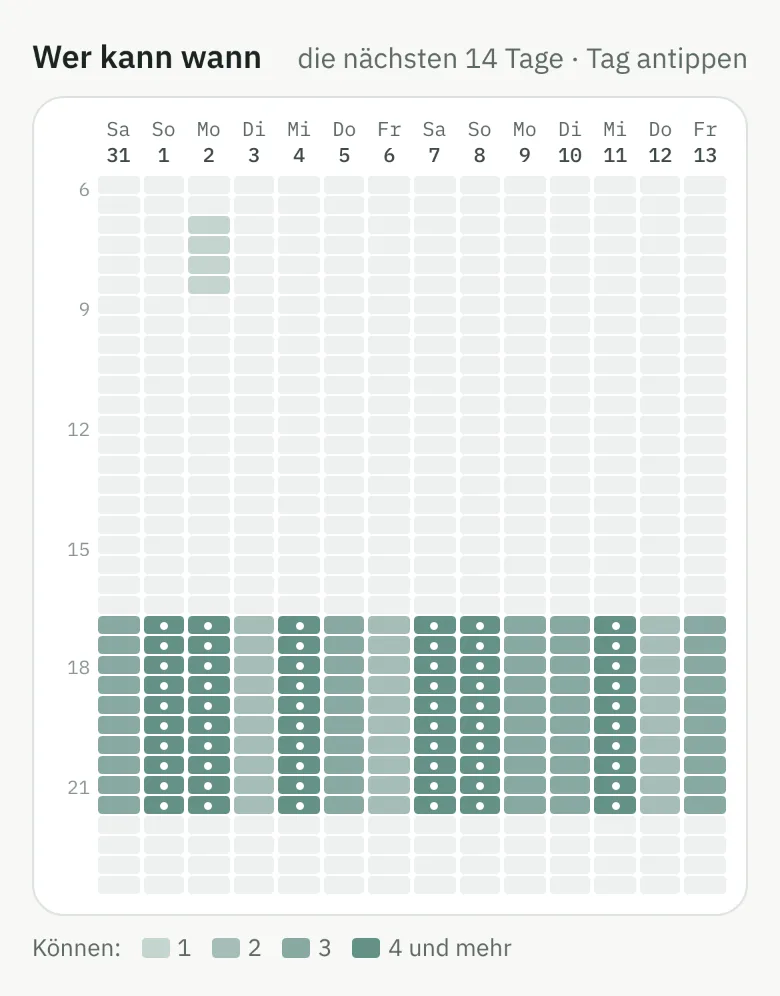
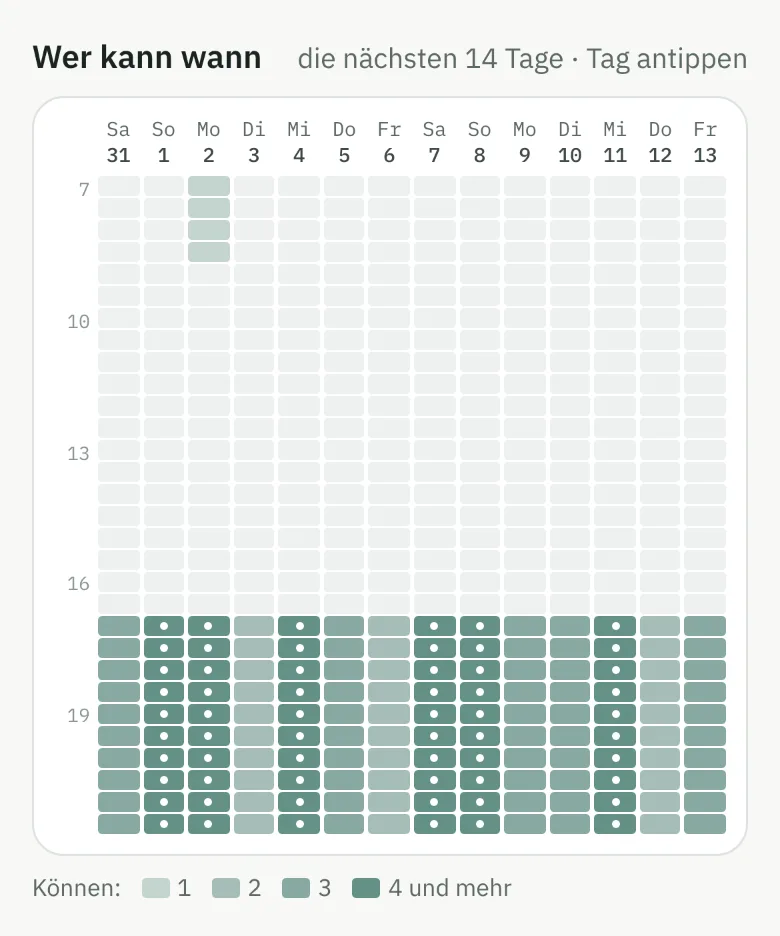
Wer kann wann shows 7:00 to 22:00
Why: Seb: the times should be shown from 7:00 to 22:00.
What: The grid on a group's page and its day sheet show the half hours
from 7 to 22 (30 instead of 36); times entered before 7 or after 22 are
left out of it, nothing else changes. Hilfe text and picture, groups.md
and today's release note say so.
Checked: vitest (WhoCan, help); the help picture made again and looked
at; the gate on push.
Thread: https://claude.ai/code/project/chan_014QcPHgeozJeG7xkT5y7Ejh?thread=cmsg_014QcPHgeozJeG7xkT5y7Ejh5AT7gW7ke6WNrUA2AE7KnF

diff --git a/services/app/src/groups/WhoCan.tsx b/services/app/src/groups/WhoCan.tsx
@@ -1,5 +1,6 @@
 // Wer kann wann on a group's page (Seb, 2026-10-31, feedback #68): the
-// next 14 days, every half hour from 6 to 24, the darker the more members
+// next 14 days, every half hour from 7 to 22 (Seb, 2026-10-31; times
+// entered outside are left out), the darker the more members
 // can; four or more get a dot. It scales with the group, where a row per
 // member would not. Wide, the days are rows and a hover names who can; on a
 // phone the grid turns, days side by side and the time running down, and a
@@ -12,9 +13,10 @@ import { api, call, type AvailabilityDay } from "../api/client";
 import { Sheet } from "@burgstaller/web/sheet";
 import { card, link, quiet } from "../ui";
 
-const FIRST = 6 * 60;
+const FIRST = 7 * 60;
 const STEP = 30;
-const SLOTS = (24 * 60 - FIRST) / STEP;
+const LAST = 22 * 60;
+const SLOTS = (LAST - FIRST) / STEP;
 const WEEKDAYS = ["So", "Mo", "Di", "Mi", "Do", "Fr", "Sa"];
 const FOUR = 4;
 
@@ -168,7 +170,7 @@ export function WhoCan({ group }: { group: number }) {
             <div className="mb-1 grid grid-cols-[4.5rem_1fr] gap-3 font-mono text-[10px] text-ink-faint">
               <span />
               <span className="flex justify-between">
-                {[6, 9, 12, 15, 18, 21, 24].map((h) => (
+                {[7, 10, 13, 16, 19, 22].map((h) => (
                   <span key={h}>{h}</span>
                 ))}
               </span>
@@ -187,7 +189,7 @@ export function WhoCan({ group }: { group: number }) {
                   >
                     {dayLabel(d.day)}
                   </span>
-                  <span className="grid h-[18px] grid-cols-[repeat(36,minmax(0,1fr))] gap-px">
+                  <span className="grid h-[18px] grid-cols-[repeat(30,minmax(0,1fr))] gap-px">
                     {d.can.map((w, i) => (
                       <Cell key={i} n={w.length} onEnter={enter(d, i)} />
                     ))}
@@ -228,11 +230,11 @@ export function WhoCan({ group }: { group: number }) {
             </div>
             <div className="grid grid-cols-[1.25rem_repeat(14,minmax(0,1fr))] gap-0.5">
               <span className="relative font-mono text-[9.5px] text-ink-faint">
-                {[6, 9, 12, 15, 18, 21].map((h) => (
+                {[7, 10, 13, 16, 19].map((h) => (
                   <span
                     key={h}
                     className="absolute right-0.5"
-                    style={{ top: `${((h - 6) / 18) * 100}%` }}
+                    style={{ top: `${((h * 60 - FIRST) / (LAST - FIRST)) * 100}%` }}
                   >
                     {h}
                   </span>
@@ -242,7 +244,7 @@ export function WhoCan({ group }: { group: number }) {
                 <button
                   key={d.day}
                   type="button"
-                  className="grid grid-rows-[repeat(36,9px)] gap-px rounded-sm"
+                  className="grid grid-rows-[repeat(30,10px)] gap-px rounded-sm"
                   aria-label={`${dayLabel(d.day)}: bis zu ${best(d)} von ${total}`}
                   onClick={() => setOpen(d)}
                 >

diff --git a/services/app/src/groups/WhoCan.test.tsx b/services/app/src/groups/WhoCan.test.tsx
@@ -39,9 +39,12 @@ describe("overlay and blocks", () => {
     const days = overlay(win.from, win.to, members);
     expect(days).toHaveLength(14);
     const wed = days.find((d) => d.day === "2026-11-04")!;
-    expect(wed.can[(19 * 60 - 360) / 30]).toEqual(["Seb", "Anna", "markus", "Lisa"]);
+    expect(wed.can[(19 * 60 - 420) / 30]).toEqual(["Seb", "Anna", "markus", "Lisa"]);
     expect(wed.open).toEqual(["Eva"]);
     expect(days.find((d) => d.day === "2026-11-03")!.declined).toEqual(["Lisa"]);
+    // Shown from 7 to 22: Seb's last half hour, 21:30 to 22:00, is the last cell.
+    expect(wed.can).toHaveLength(30);
+    expect(wed.can[29]).toEqual(["Seb"]);
     expect(blocks(wed).map((b) => [b.from, b.to, b.who.length])).toEqual([
       [1080, 1140, 2],
       [1140, 1200, 4],
@@ -59,7 +62,7 @@ describe("WhoCan", () => {
     expect(days).toHaveLength(2); // wide and phone
 
     const cells = days[0]!.querySelectorAll("span.grid > span");
-    fireEvent.mouseEnter(cells[(19 * 60 - 360) / 30]!);
+    fireEvent.mouseEnter(cells[(19 * 60 - 420) / 30]!);
     expect(screen.getByRole("tooltip")).toHaveTextContent(
       "Mi 4.11. · 19:00–19:304 von 5: Seb, Anna, markus, Lisa",
     );

diff --git a/services/app/src/help/chapters.tsx b/services/app/src/help/chapters.tsx
@@ -188,7 +188,7 @@ export const CHAPTERS: Chapter[] = [
         </p>
         <p>
           Darunter zeigt {b("Wer kann wann")} die nächsten 14 Tage der ganzen Gruppe, jede halbe
-          Stunde von 6 bis 24 Uhr. Je dunkler ein Feld, desto mehr von euch können; ab vier hat es
+          Stunde von 7 bis 22 Uhr. Je dunkler ein Feld, desto mehr von euch können; ab vier hat es
           einen Punkt. Am Computer stehen die Namen da, wenn du mit der Maus darüberfährst. Ein Tipp
           auf einen Tag zeigt seine Zeiten mit Namen, wer „Passt nicht“ gesagt hat und wer den Tag
           noch offen hat. Ob ein Platz frei ist, steht dort nicht, das sagt {b("Passt für vier")}.

diff --git a/docs/design/groups.md b/docs/design/groups.md
@@ -71,7 +71,8 @@
   two slices.
 - **Wer kann wann** (Seb, 2026-10-31, feedback #68): on a group's page,
   under Passt für vier, the next 14 days of the whole group, every half
-  hour from 6 to 24, the darker the more members can, with a dot from
+  hour from 7 to 22 (Seb, 2026-10-31; times entered outside are not
+  shown), the darker the more members can, with a dot from
   four (`groups/WhoCan.tsx`). `GET /api/v1/groups/{id}/availability`
   gives every member's spans and declined days, members only: an open
   group shows its members to anyone, never their times (404 `no-group`).

diff --git a/release_notes/2026-10-31-wer-kann-wann.md b/release_notes/2026-10-31-wer-kann-wann.md
@@ -5,7 +5,7 @@ title: Auf einen Blick, wer aus deiner Gruppe wann kann
 link: /play
 ---
 Auf der Seite deiner Gruppe steht unter **Passt für vier** jetzt **Wer kann
-wann**: die nächsten 14 Tage, jede halbe Stunde von 6 bis 24 Uhr. Je dunkler
+wann**: die nächsten 14 Tage, jede halbe Stunde von 7 bis 22 Uhr. Je dunkler
 ein Feld, desto mehr von euch können, und ab vier hat es einen Punkt.
 
 Am Computer fährst du mit der Maus über ein Feld und siehst, wer kann. Am
